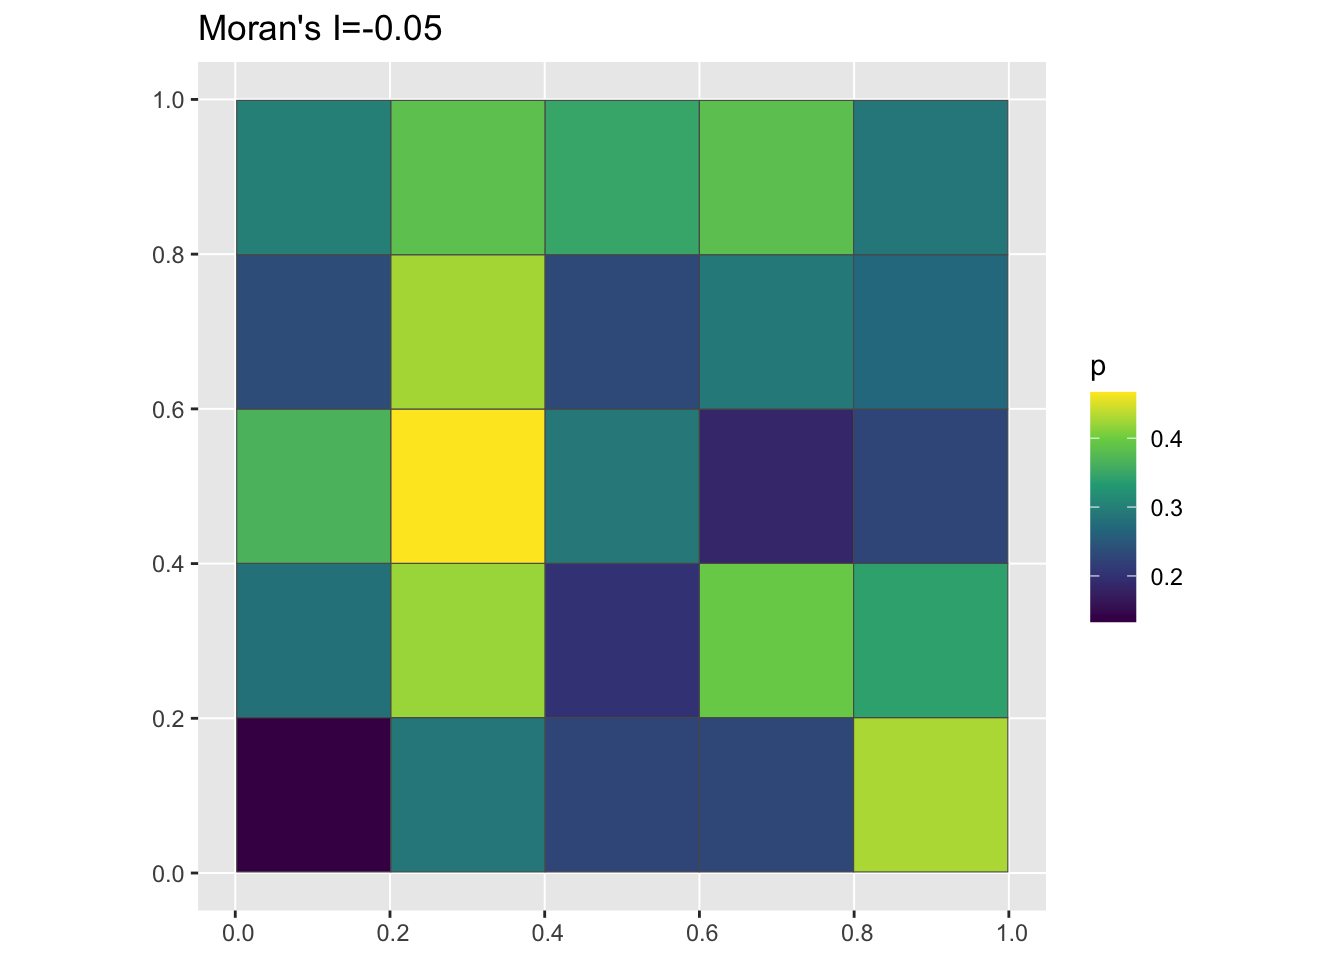
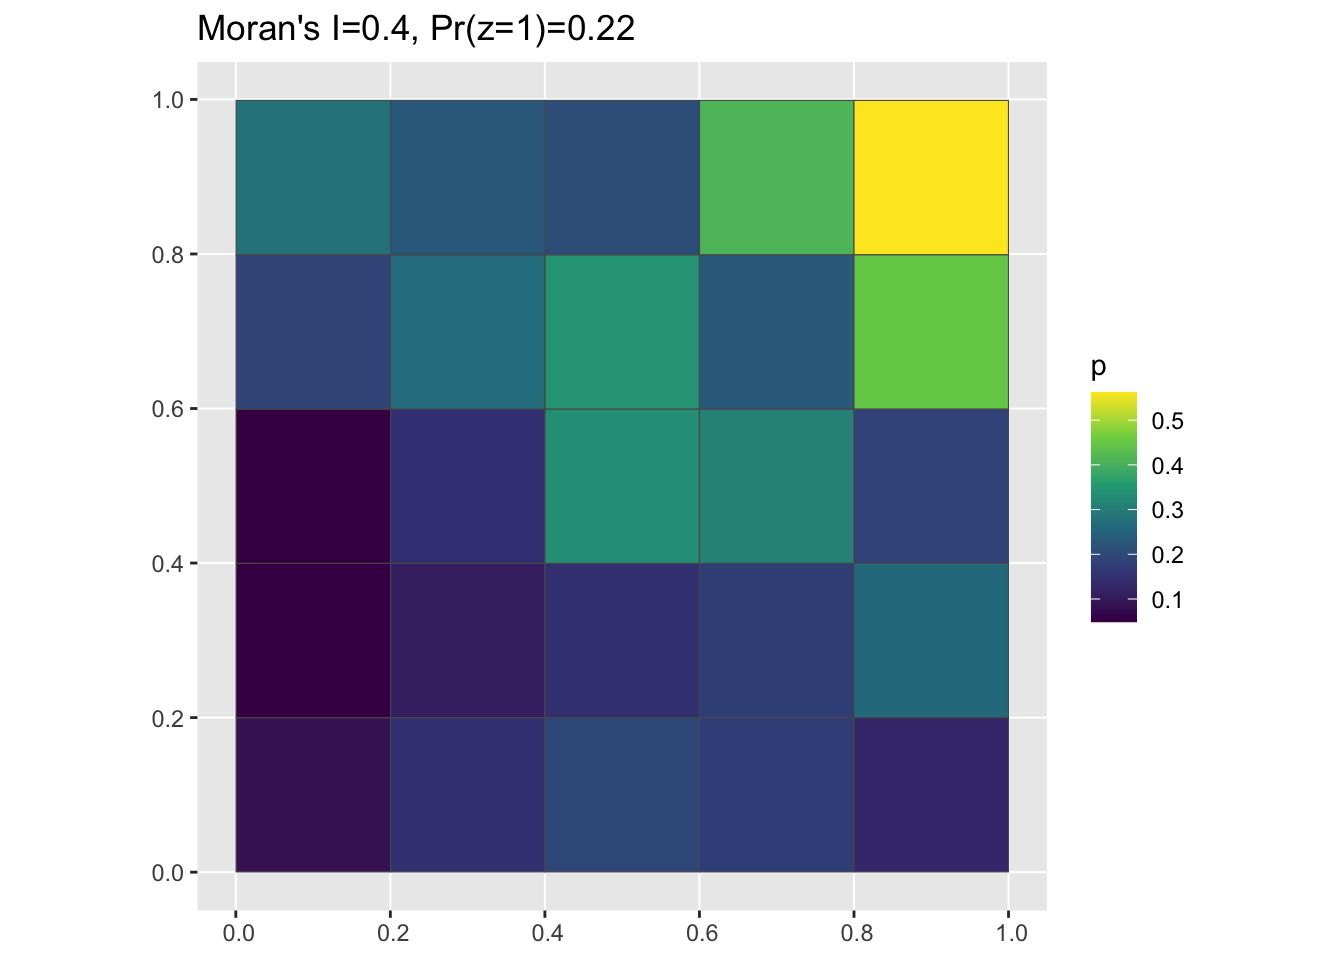
Built site for gh-pages

diff --git a/posts/csr/index.html b/posts/csr/index.html
@@ -221,9 +221,10 @@ gtag('config', 'G-4J38PX7FF5', { 'anonymize_ip': true});
   <li><a href="#calculating-morans-i" id="toc-calculating-morans-i" class="nav-link" data-scroll-target="#calculating-morans-i">Calculating Moran’s I</a></li>
   <li><a href="#plotting" id="toc-plotting" class="nav-link" data-scroll-target="#plotting">Plotting</a></li>
   </ul></li>
-  <li><a href="#assessing-how-structured-the-data-are" id="toc-assessing-how-structured-the-data-are" class="nav-link" data-scroll-target="#assessing-how-structured-the-data-are">Assessing how structured the data are</a>
+  <li><a href="#assessing-how-structured-the-data-are-using-permutation-testing" id="toc-assessing-how-structured-the-data-are-using-permutation-testing" class="nav-link" data-scroll-target="#assessing-how-structured-the-data-are-using-permutation-testing">Assessing how structured the data are using permutation testing</a>
   <ul class="collapse">
   <li><a href="#permuting-the-data" id="toc-permuting-the-data" class="nav-link" data-scroll-target="#permuting-the-data">Permuting the data</a></li>
+  <li><a href="#approximating-the-sampling-distribution-of-spatially-random-data" id="toc-approximating-the-sampling-distribution-of-spatially-random-data" class="nav-link" data-scroll-target="#approximating-the-sampling-distribution-of-spatially-random-data">Approximating the sampling distribution of spatially random data</a></li>
   <li><a href="#generate-some-data-1" id="toc-generate-some-data-1" class="nav-link" data-scroll-target="#generate-some-data-1">Generate Some Data</a></li>
   <li><a href="#comparing-randomized-data-to-observed-data" id="toc-comparing-randomized-data-to-observed-data" class="nav-link" data-scroll-target="#comparing-randomized-data-to-observed-data">Comparing randomized data to observed data</a></li>
   </ul></li>
@@ -286,7 +287,11 @@ gtag('config', 'G-4J38PX7FF5', { 'anonymize_ip': true});
 </section>
 <section id="generate-some-data" class="level1">
 <h1>Generate some data</h1>
-<p>This function will generate <code>n</code> points which are scattered uniformly at random around a unit square (i.e.&nbsp;a square with an area of one). The parameter <code>base_p</code> controls the baseline probability of the outcome of interest - e.g.&nbsp;the presence of a disease - occurring at the bottom left corner of the square,i.e.&nbsp;where x = 0, and y = 0. The parameters <code>or_x</code> and <code>or_y</code> are odds ratios representing the increase in the probability of having the outcome <code>z=1</code> as you move rightwards (from x = 0 to x = 1) and upwards (from y = 0 to y = 1) respectively.</p>
+<p>This function will generate <code>n</code> points which are scattered uniformly at random around a unit square (i.e.&nbsp;a square with an area of one). The parameter <code>base_p</code> controls the baseline probability of the outcome of interest - e.g.&nbsp;the presence of a disease - occurring at the bottom left corner of the square,i.e.&nbsp;where x = 0, and y = 0. The parameters <code>or_x</code> and <code>or_y</code> are odds ratios representing the increase in the probability of having the outcome <code>z=1</code> as you move rightwards (from x = 0 to x = 1) and upwards (from y = 0 to y = 1) respectively. In other words, the probability of an individual being a case or a control can be written as:</p>
+<p><span id="eq-clustered-outcome"><span class="math display">\[
+Pr(z_i = 1 | x_i, y_i) = logit^{-1}(\alpha + \beta_x x_i + \beta_y y_i)
+\tag{1}\]</span></span></p>
+<p>Where <span class="math inline">\(logit^{-1}\)</span> represents the <a href="https://en.wikipedia.org/wiki/Logit">inverse logit function</a>, <span class="math inline">\(\beta_{x}\)</span> is the log-odds ratio associated with a 1-unit change in the x coordinate of individual <em>i</em>, <span class="math inline">\(\beta_{y}\)</span> is the log odds-ratio associated with a 1-unit change in the y coordinate for individual <span class="math inline">\(i\)</span>, and <span class="math inline">\(\alpha\)</span> is the log-odds of being a control (<span class="math inline">\(z=1\)</span>) when <span class="math inline">\(x=0\)</span> and <span class="math inline">\(y=0\)</span>. We can wrap this all up in the function below where <code>or_x</code> = <span class="math inline">\(exp(\beta_x)\)</span>, <code>or_y</code> = <span class="math inline">\(exp(\beta_y)\)</span>, and <code>base_p</code> = <span class="math inline">\(logit^{-1}(\alpha)\)</span>:</p>
 <div class="cell">
 <div class="sourceCode cell-code" id="cb2"><pre class="sourceCode r code-with-copy"><code class="sourceCode r"><span id="cb2-1"><a href="#cb2-1" aria-hidden="true" tabindex="-1"></a>clusteredOutcomeData <span class="ot">&lt;-</span> <span class="cf">function</span>(<span class="at">base_p =</span> <span class="fl">0.1</span>, <span class="at">or_x =</span> <span class="dv">10</span>, <span class="at">or_y =</span> <span class="dv">10</span>, <span class="at">n =</span> <span class="dv">1000</span>) {</span>
 <span id="cb2-2"><a href="#cb2-2" aria-hidden="true" tabindex="-1"></a>    df <span class="ot">&lt;-</span> <span class="fu">data.frame</span>(<span class="at">x =</span> <span class="fu">runif</span>(n), <span class="at">y =</span> <span class="fu">runif</span>(n))</span>
@@ -299,10 +304,13 @@ gtag('config', 'G-4J38PX7FF5', { 'anonymize_ip': true});
 <p>When the values of both of these parameters are high, the probability of having a positive case should be greatest in the top-right corner of the square. Lets take a look and see if this is the case:</p>
 <div class="cell">
 <div class="sourceCode cell-code" id="cb3"><pre class="sourceCode r code-with-copy"><code class="sourceCode r"><span id="cb3-1"><a href="#cb3-1" aria-hidden="true" tabindex="-1"></a>df <span class="ot">&lt;-</span> <span class="fu">clusteredOutcomeData</span>(<span class="fl">0.05</span>, <span class="dv">5</span>, <span class="dv">10</span>, <span class="dv">1000</span>)</span>
-<span id="cb3-2"><a href="#cb3-2" aria-hidden="true" tabindex="-1"></a>g <span class="ot">&lt;-</span> <span class="fu">ggplot</span>(df, <span class="fu">aes</span>(<span class="at">x =</span> x, <span class="at">y =</span> y)) <span class="sc">+</span> <span class="fu">geom_point</span>(<span class="fu">aes</span>(<span class="at">colour =</span> z)) <span class="sc">+</span> <span class="fu">facet_wrap</span>(<span class="sc">~</span>z)</span>
-<span id="cb3-3"><a href="#cb3-3" aria-hidden="true" tabindex="-1"></a><span class="fu">plot</span>(g)</span></code><button title="Copy to Clipboard" class="code-copy-button"><i class="bi"></i></button></pre></div>
+<span id="cb3-2"><a href="#cb3-2" aria-hidden="true" tabindex="-1"></a>g <span class="ot">&lt;-</span> <span class="fu">ggplot</span>(df, <span class="fu">aes</span>(<span class="at">x =</span> x, <span class="at">y =</span> y)) <span class="sc">+</span> <span class="fu">geom_point</span>(<span class="fu">aes</span>(<span class="at">colour =</span> z)) <span class="sc">+</span> <span class="fu">facet_wrap</span>(<span class="sc">~</span>z) <span class="sc">+</span></span>
+<span id="cb3-3"><a href="#cb3-3" aria-hidden="true" tabindex="-1"></a>    <span class="fu">ggtitle</span>(<span class="fu">paste0</span>(<span class="st">"Pr(z=1)="</span>, <span class="fu">round</span>(<span class="fu">sum</span>(df<span class="sc">$</span>z)<span class="sc">/</span><span class="fu">nrow</span>(df), <span class="dv">2</span>)))</span>
+<span id="cb3-4"><a href="#cb3-4" aria-hidden="true" tabindex="-1"></a></span>
+<span id="cb3-5"><a href="#cb3-5" aria-hidden="true" tabindex="-1"></a></span>
+<span id="cb3-6"><a href="#cb3-6" aria-hidden="true" tabindex="-1"></a><span class="fu">plot</span>(g)</span></code><button title="Copy to Clipboard" class="code-copy-button"><i class="bi"></i></button></pre></div>
 <div class="cell-output-display">
-<p><img src="index_files/figure-html/unnamed-chunk-3-1.png" class="img-fluid" width="672"></p>
+<p><img src="index_files/figure-html/unnamed-chunk-2-1.png" class="img-fluid" width="672"></p>
 </div>
 </div>
 <p>In this setup the risk of being a case is clearly higher in the top-right vs.&nbsp;the left. In the next section, we’ll work on aggregating these data up to a grid cell and calculating a descriptive spatial statistic, in this case Moran’s I.</p>
@@ -359,7 +367,7 @@ Try making some patterns!
 <span id="cb6-4"><a href="#cb6-4" aria-hidden="true" tabindex="-1"></a>    data_mi))</span>
 <span id="cb6-5"><a href="#cb6-5" aria-hidden="true" tabindex="-1"></a><span class="fu">plot</span>(g)</span></code><button title="Copy to Clipboard" class="code-copy-button"><i class="bi"></i></button></pre></div>
 <div class="cell-output-display">
-<p><img src="index_files/figure-html/unnamed-chunk-6-1.png" class="img-fluid" width="672"></p>
+<p><img src="index_files/figure-html/unnamed-chunk-5-1.png" class="img-fluid" width="672"></p>
 </div>
 </div>
 <div class="callout-tip callout callout-style-default callout-captioned">
@@ -377,9 +385,17 @@ Change the number of cells
 </div>
 </section>
 </section>
-<section id="assessing-how-structured-the-data-are" class="level1">
-<h1>Assessing how structured the data are</h1>
-<p>This function just takes the input data and shuffles the values of the case/control outcome so that they no longer have a spatial pattern:</p>
+<section id="assessing-how-structured-the-data-are-using-permutation-testing" class="level1">
+<h1>Assessing how structured the data are using permutation testing</h1>
+<p>Our goal in this section is to introuce the idea of random permutation testing as a way of analyzing how likely the <em>observed</em> data are to have been generated by a scenario in which there is no spatial structure. Remember that we used a logistic regression model (see <a href="#eq-clustered-outcome">Equation&nbsp;1</a>) in which the probability of being a case (<span class="math inline">\(z_i = 1\)</span>) is a function of an individual’s x and y coordinates to generate the input data.</p>
+<p>Of course, with real-world data, we don’t know how the data were generated: the whole point of statistical modeling and testing is to try to figure that out! One way to do this is to ask if the data are consistent with a world in which there is no spatial structure at all. In this case, that would mean that the probability of being a case or a control is unaffected by spatial location, i.e.&nbsp;generated from a model like this:</p>
+<p><span id="eq-no-structure"><span class="math display">\[
+Pr(z_i = 1 | x_i, y_i) = \alpha
+\tag{2}\]</span></span></p>
+<p>Where <span class="math inline">\(logit^{-1}(\alpha)\)</span> is the population-level probability that an individual is a case. To assess this, we want to set up a situation where we have the exact same number of cases as in our observed data, the locations of all individuals remain the same, and the geometry of our map stays the same, but only the relationship between spatial location and case vs.&nbsp;control status is broken. To do this, we can randomly permute the case/control <em>labels</em> on our individuals, generating a large number of <em>counterfactual</em> datasets in which the data are consistent with the model in <a href="#eq-no-structure">Equation&nbsp;2</a>. If they are, we can reject our (rather weak) null hypothesis that our data come from a world with no spatial structure.</p>
+<section id="permuting-the-data" class="level2">
+<h2 class="anchored" data-anchor-id="permuting-the-data">Permuting the data</h2>
+<p>The function below does just that - it takes the input data and shuffles the values of the case/control outcome so that they no longer have a spatial pattern:</p>
 <div class="cell">
 <div class="sourceCode cell-code" id="cb7"><pre class="sourceCode r code-with-copy"><code class="sourceCode r"><span id="cb7-1"><a href="#cb7-1" aria-hidden="true" tabindex="-1"></a>randomizeOutcome <span class="ot">&lt;-</span> <span class="cf">function</span>(df) {</span>
 <span id="cb7-2"><a href="#cb7-2" aria-hidden="true" tabindex="-1"></a>    new_df <span class="ot">&lt;-</span> df</span>
@@ -387,13 +403,15 @@ Change the number of cells
 <span id="cb7-4"><a href="#cb7-4" aria-hidden="true" tabindex="-1"></a>    <span class="fu">return</span>(new_df)</span>
 <span id="cb7-5"><a href="#cb7-5" aria-hidden="true" tabindex="-1"></a>}</span></code><button title="Copy to Clipboard" class="code-copy-button"><i class="bi"></i></button></pre></div>
 </div>
-<p>When we plot the randomized data, we can see now that the strong clustering pattern at the beginning has been disrupted:</p>
+<p>When we plot the randomized data, we can see now that the strong clustering pattern at the beginning has been disrupted but that the proportion of individuals that are cases remains the same:</p>
 <div class="cell">
 <div class="sourceCode cell-code" id="cb8"><pre class="sourceCode r code-with-copy"><code class="sourceCode r"><span id="cb8-1"><a href="#cb8-1" aria-hidden="true" tabindex="-1"></a>random_df <span class="ot">&lt;-</span> <span class="fu">randomizeOutcome</span>(df)</span>
-<span id="cb8-2"><a href="#cb8-2" aria-hidden="true" tabindex="-1"></a>g <span class="ot">&lt;-</span> <span class="fu">ggplot</span>(random_df, <span class="fu">aes</span>(<span class="at">x =</span> x, <span class="at">y =</span> y)) <span class="sc">+</span> <span class="fu">geom_point</span>(<span class="fu">aes</span>(<span class="at">colour =</span> z)) <span class="sc">+</span> <span class="fu">facet_wrap</span>(<span class="sc">~</span>z)</span>
-<span id="cb8-3"><a href="#cb8-3" aria-hidden="true" tabindex="-1"></a><span class="fu">plot</span>(g)</span></code><button title="Copy to Clipboard" class="code-copy-button"><i class="bi"></i></button></pre></div>
+<span id="cb8-2"><a href="#cb8-2" aria-hidden="true" tabindex="-1"></a>g <span class="ot">&lt;-</span> <span class="fu">ggplot</span>(random_df, <span class="fu">aes</span>(<span class="at">x =</span> x, <span class="at">y =</span> y)) <span class="sc">+</span> <span class="fu">geom_point</span>(<span class="fu">aes</span>(<span class="at">colour =</span> z)) <span class="sc">+</span> <span class="fu">facet_wrap</span>(<span class="sc">~</span>z) <span class="sc">+</span></span>
+<span id="cb8-3"><a href="#cb8-3" aria-hidden="true" tabindex="-1"></a>    <span class="fu">ggtitle</span>(<span class="fu">paste0</span>(<span class="st">"Pr(z=1)="</span>, <span class="fu">round</span>(<span class="fu">sum</span>(random_df<span class="sc">$</span>z)<span class="sc">/</span><span class="fu">nrow</span>(random_df), <span class="dv">2</span>)))</span>
+<span id="cb8-4"><a href="#cb8-4" aria-hidden="true" tabindex="-1"></a></span>
+<span id="cb8-5"><a href="#cb8-5" aria-hidden="true" tabindex="-1"></a><span class="fu">plot</span>(g)</span></code><button title="Copy to Clipboard" class="code-copy-button"><i class="bi"></i></button></pre></div>
 <div class="cell-output-display">
-<p><img src="index_files/figure-html/unnamed-chunk-8-1.png" class="img-fluid" width="672"></p>
+<p><img src="index_files/figure-html/unnamed-chunk-7-1.png" class="img-fluid" width="672"></p>
 </div>
 </div>
 <p>And we can use the functions we defined earlier to aggregate up from the randomized data to grid cells, calculate Moran’s I, and plot:</p>
@@ -401,28 +419,29 @@ Change the number of cells
 <div class="sourceCode cell-code" id="cb9"><pre class="sourceCode r code-with-copy"><code class="sourceCode r"><span id="cb9-1"><a href="#cb9-1" aria-hidden="true" tabindex="-1"></a>pg <span class="ot">&lt;-</span> <span class="fu">pointToGrid</span>(random_df)</span>
 <span id="cb9-2"><a href="#cb9-2" aria-hidden="true" tabindex="-1"></a>mi <span class="ot">&lt;-</span> <span class="fu">round</span>(<span class="fu">moranFromSF</span>(pg<span class="sc">$</span>p, pg), <span class="dv">2</span>)</span>
 <span id="cb9-3"><a href="#cb9-3" aria-hidden="true" tabindex="-1"></a>g <span class="ot">&lt;-</span> <span class="fu">ggplot</span>(pg) <span class="sc">+</span> <span class="fu">geom_sf</span>(<span class="fu">aes</span>(<span class="at">fill =</span> p)) <span class="sc">+</span> <span class="fu">scale_fill_viridis_c</span>() <span class="sc">+</span> <span class="fu">ggtitle</span>(<span class="fu">paste0</span>(<span class="st">"Moran's I="</span>,</span>
-<span id="cb9-4"><a href="#cb9-4" aria-hidden="true" tabindex="-1"></a>    mi))</span>
+<span id="cb9-4"><a href="#cb9-4" aria-hidden="true" tabindex="-1"></a>    data_mi, <span class="st">", Pr(z=1)="</span>, <span class="fu">round</span>(<span class="fu">sum</span>(random_df<span class="sc">$</span>z)<span class="sc">/</span><span class="fu">nrow</span>(random_df), <span class="dv">2</span>)))</span>
 <span id="cb9-5"><a href="#cb9-5" aria-hidden="true" tabindex="-1"></a><span class="fu">plot</span>(g)</span></code><button title="Copy to Clipboard" class="code-copy-button"><i class="bi"></i></button></pre></div>
 <div class="cell-output-display">
-<p><img src="index_files/figure-html/unnamed-chunk-9-1.png" class="img-fluid" width="672"></p>
+<p><img src="index_files/figure-html/unnamed-chunk-8-1.png" class="img-fluid" width="672"></p>
 </div>
 </div>
-<section id="permuting-the-data" class="level2">
-<h2 class="anchored" data-anchor-id="permuting-the-data">Permuting the data</h2>
+</section>
+<section id="approximating-the-sampling-distribution-of-spatially-random-data" class="level2">
+<h2 class="anchored" data-anchor-id="approximating-the-sampling-distribution-of-spatially-random-data">Approximating the sampling distribution of spatially random data</h2>
 <p>Here’s where the rubber meets the road 🛣. We will repeat the randomization above a large number of times (careful, as the number of trials increases, so does the runtime), save the value of Moran’s I for each randomized dataset, and then compare the randomized values to the ‘true’ one.</p>
 </section>
 <section id="generate-some-data-1" class="level2">
 <h2 class="anchored" data-anchor-id="generate-some-data-1">Generate Some Data</h2>
-<p>First, we’ll generate and visualize the input data again:</p>
+<p>First, we’ll generate and visualize the structured data again:</p>
 <div class="cell">
-<div class="sourceCode cell-code" id="cb10"><pre class="sourceCode r code-with-copy"><code class="sourceCode r"><span id="cb10-1"><a href="#cb10-1" aria-hidden="true" tabindex="-1"></a>df <span class="ot">&lt;-</span> <span class="fu">clusteredOutcomeData</span>(<span class="fl">0.1</span>, <span class="dv">5</span>, <span class="dv">5</span>, <span class="dv">100</span>)</span>
+<div class="sourceCode cell-code" id="cb10"><pre class="sourceCode r code-with-copy"><code class="sourceCode r"><span id="cb10-1"><a href="#cb10-1" aria-hidden="true" tabindex="-1"></a>df <span class="ot">&lt;-</span> <span class="fu">clusteredOutcomeData</span>(<span class="fl">0.05</span>, <span class="dv">5</span>, <span class="dv">5</span>, <span class="dv">1000</span>)</span>
 <span id="cb10-2"><a href="#cb10-2" aria-hidden="true" tabindex="-1"></a>pg <span class="ot">&lt;-</span> <span class="fu">pointToGrid</span>(df)</span>
 <span id="cb10-3"><a href="#cb10-3" aria-hidden="true" tabindex="-1"></a>data_mi <span class="ot">&lt;-</span> <span class="fu">round</span>(<span class="fu">moranFromSF</span>(pg<span class="sc">$</span>p, pg), <span class="dv">2</span>)</span>
 <span id="cb10-4"><a href="#cb10-4" aria-hidden="true" tabindex="-1"></a>g <span class="ot">&lt;-</span> <span class="fu">ggplot</span>(pg) <span class="sc">+</span> <span class="fu">geom_sf</span>(<span class="fu">aes</span>(<span class="at">fill =</span> p)) <span class="sc">+</span> <span class="fu">scale_fill_viridis_c</span>() <span class="sc">+</span> <span class="fu">ggtitle</span>(<span class="fu">paste0</span>(<span class="st">"Moran's I="</span>,</span>
-<span id="cb10-5"><a href="#cb10-5" aria-hidden="true" tabindex="-1"></a>    data_mi))</span>
+<span id="cb10-5"><a href="#cb10-5" aria-hidden="true" tabindex="-1"></a>    data_mi, <span class="st">", Pr(z=1)="</span>, <span class="fu">round</span>(<span class="fu">sum</span>(df<span class="sc">$</span>z)<span class="sc">/</span><span class="fu">nrow</span>(df), <span class="dv">2</span>)))</span>
 <span id="cb10-6"><a href="#cb10-6" aria-hidden="true" tabindex="-1"></a><span class="fu">plot</span>(g)</span></code><button title="Copy to Clipboard" class="code-copy-button"><i class="bi"></i></button></pre></div>
 <div class="cell-output-display">
-<p><img src="index_files/figure-html/unnamed-chunk-10-1.png" class="img-fluid" width="672"></p>
+<p><img src="index_files/figure-html/unnamed-chunk-9-1.png" class="img-fluid" width="672"></p>
 </div>
 </div>
 <p>Now we’ll generate a large number of datasets which have the same number of cases and controls and where the points are all in the same locations, but the geographic distribution of case and control statuses is randomly distributed:</p>
@@ -463,7 +482,7 @@ Change the number of cells
 <span id="cb12-8"><a href="#cb12-8" aria-hidden="true" tabindex="-1"></a></span>
 <span id="cb12-9"><a href="#cb12-9" aria-hidden="true" tabindex="-1"></a><span class="fu">plot</span>(g)</span></code><button title="Copy to Clipboard" class="code-copy-button"><i class="bi"></i></button></pre></div>
 <div class="cell-output-display">
-<p><img src="index_files/figure-html/unnamed-chunk-12-1.png" class="img-fluid" width="672"></p>
+<p><img src="index_files/figure-html/unnamed-chunk-11-1.png" class="img-fluid" width="672"></p>
 </div>
 </div>
 <div class="callout-tip callout callout-style-default callout-captioned">

diff --git a/posts/index.html b/posts/index.html
@@ -204,7 +204,7 @@ gtag('config', 'G-4J38PX7FF5', { 'anonymize_ip': true});
 
 <div class="quarto-listing quarto-listing-container-default" id="listing-listing">
 <div class="list quarto-listing-default">
-<div class="quarto-post image-right" data-index="0" data-listing-date-sort="1678338000000" data-listing-file-modified-sort="1678388617711" data-listing-reading-time-sort="5.86">
+<div class="quarto-post image-right" data-index="0" data-listing-date-sort="1678338000000" data-listing-file-modified-sort="1678462024427" data-listing-reading-time-sort="8.05">
 <div class="thumbnail">
 <p><a href="../posts/csr/index.html"> <img src="../posts/csr/clustered_figure.png" class="thumnail-image"> </a></p>
 </div>
